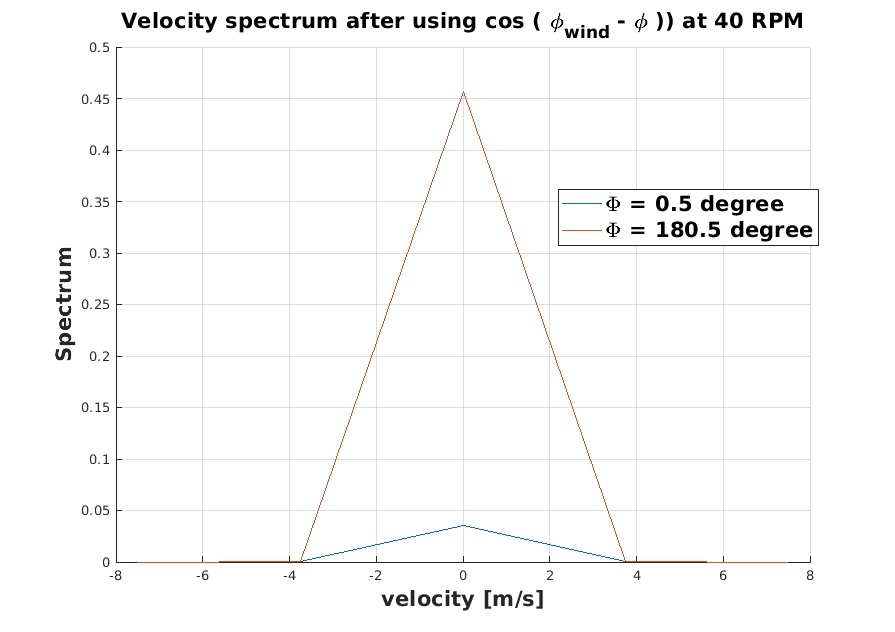
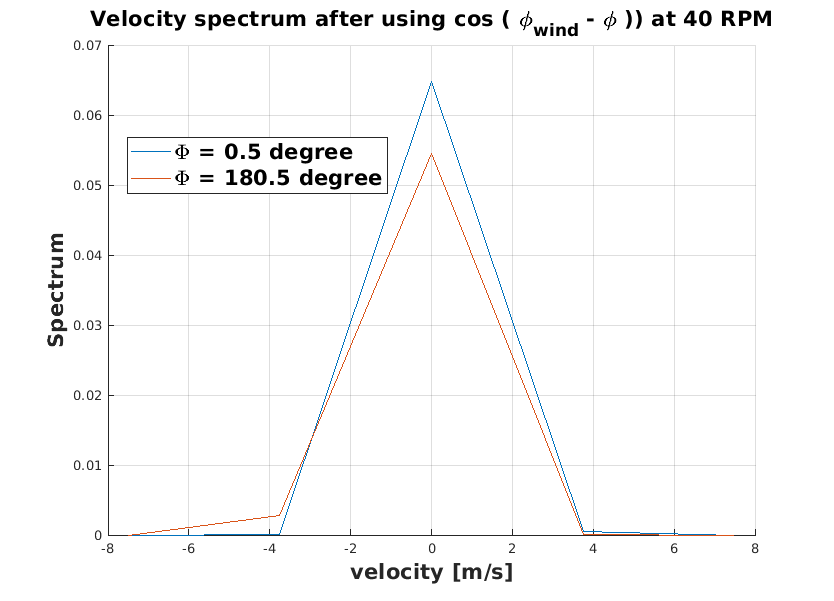
changes

diff --git a/Doppler_spectrum_with_BW.m b/Doppler_spectrum_with_BW.m
@@ -21,7 +21,7 @@ sigma = 0.9; % Standard deviation of velocity for ground truth model
 
 beta_wind = eps;  % Azimuthal angle direction for the wind
 
-BW_deg = 10; % Beam Width in degrees
+BW_deg = 1; % Beam Width in degrees
 
 BW = BW_deg*pi/180; % Beam width in radians
 phi_0 = 0; % Start of azimuth angle
